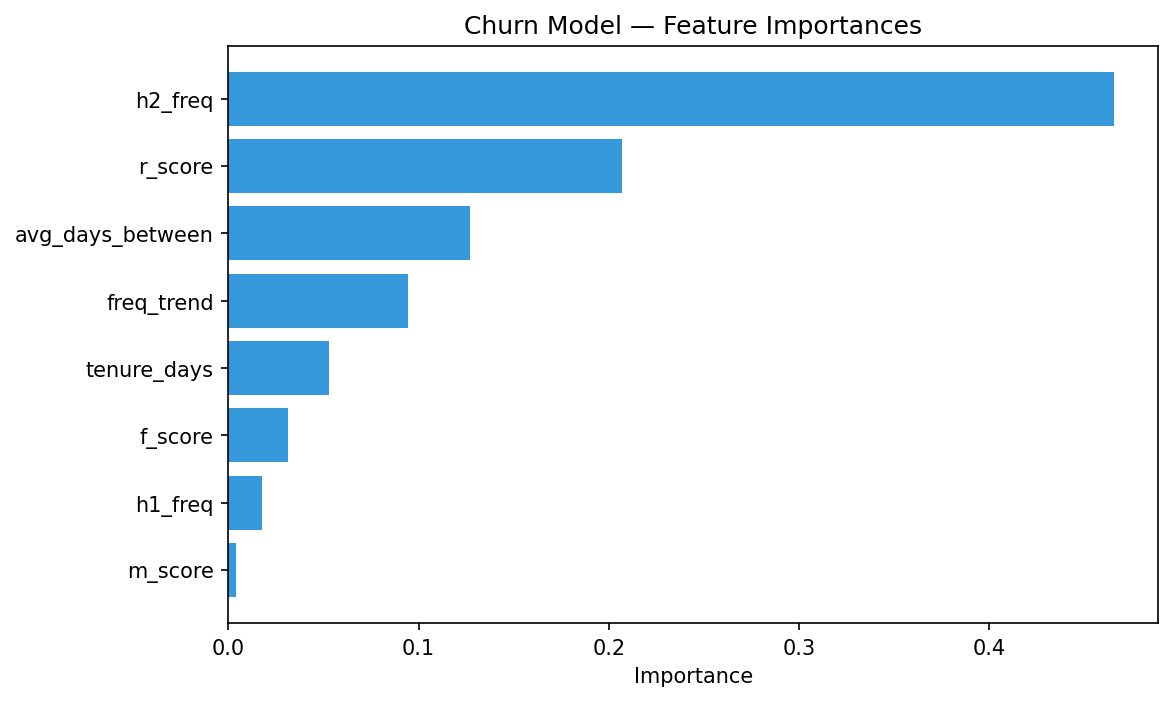
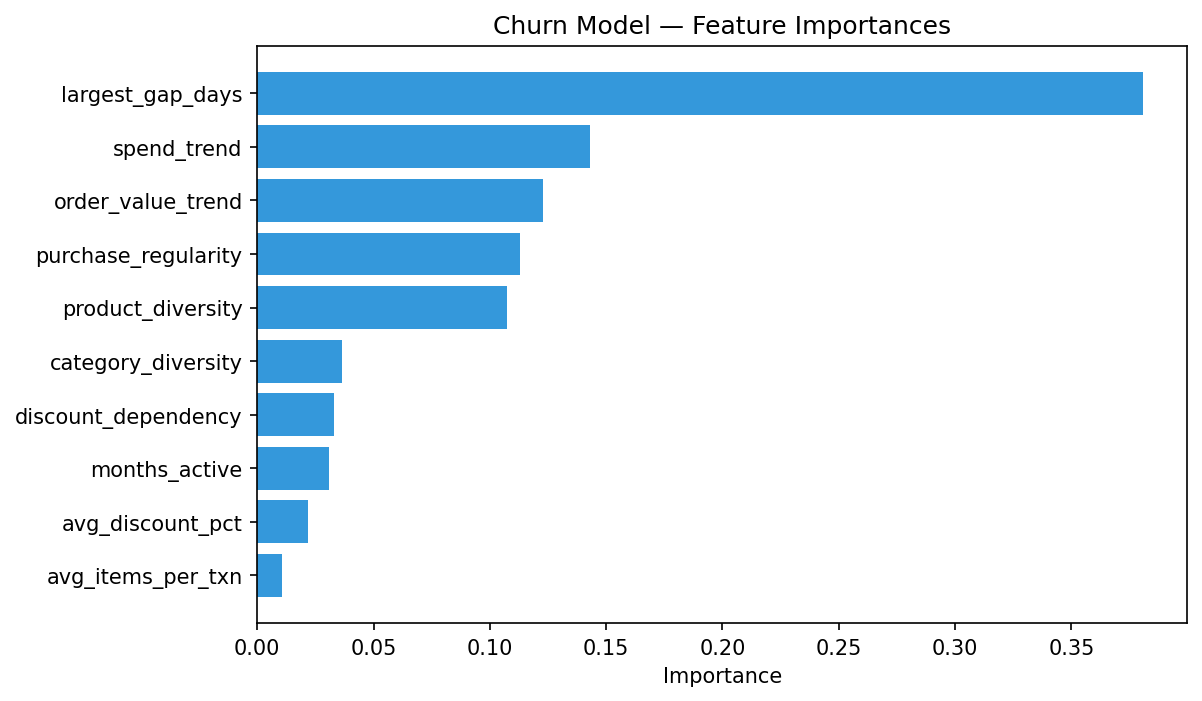
Make churn model features independent of segmentation features
Replace 8 overlapping RFM-based churn features with 10 new behavioral
features (discount behavior, product diversity, basket size, purchase
timing, spending trends) so the churn model provides independent signal
from K-Means clustering. ROC AUC improved to 0.9635.

diff --git a/scripts/customer_intelligence.py b/scripts/customer_intelligence.py
@@ -247,24 +247,114 @@ def assign_segments(rfm, transactions, customers):
 
 # ── Step 4: Churn Prediction ────────────────────────────────────────────────
 
-def predict_churn(rfm):
+def predict_churn(rfm, transactions, items, products):
     """Train Random Forest churn model and score all customers."""
     print("\nTraining churn prediction model...")
 
-    # Feature engineering
-    rfm["freq_trend"] = rfm["h2_freq"] - rfm["h1_freq"]
+    # ── Feature engineering (independent of clustering features) ──
 
-    # Average days between purchases (for customers with 2+ purchases)
-    rfm["avg_days_between"] = np.where(
-        rfm["frequency"] >= 2,
-        rfm["tenure_days"] / rfm["frequency"],
-        rfm["tenure_days"],
+    # A. Discount behavior (from transaction_items)
+    item_cust = items.merge(
+        transactions[["transaction_id", "customer_id"]], on="transaction_id"
     )
+    discount_agg = item_cust.groupby("customer_id").agg(
+        avg_discount_pct=("discount_pct", "mean"),
+        _discount_count=("discount_pct", "count"),
+    ).reset_index()
+    # Vectorized discount_dependency: fraction of items with discount > 0
+    has_discount = item_cust[item_cust["discount_pct"] > 0].groupby("customer_id").size().reset_index(name="_has_disc")
+    discount_agg = discount_agg.merge(has_discount, on="customer_id", how="left")
+    discount_agg["_has_disc"] = discount_agg["_has_disc"].fillna(0)
+    discount_agg["discount_dependency"] = discount_agg["_has_disc"] / discount_agg["_discount_count"]
+    discount_agg = discount_agg[["customer_id", "avg_discount_pct", "discount_dependency"]]
+
+    # B. Product/category diversity (from transaction_items + products)
+    item_prod = item_cust.merge(products[["product_id", "category"]], on="product_id")
+    diversity_agg = item_prod.groupby("customer_id").agg(
+        category_diversity=("category", "nunique"),
+        product_diversity=("product_id", "nunique"),
+    ).reset_index()
+
+    # C. Basket characteristics
+    items_per_txn = item_cust.groupby(["customer_id", "transaction_id"]).size().reset_index(name="item_count")
+    basket_agg = items_per_txn.groupby("customer_id").agg(
+        avg_items_per_txn=("item_count", "mean"),
+    ).reset_index()
+
+    # D. Purchase timing patterns (from transactions)
+    txn_sorted = transactions.sort_values(["customer_id", "transaction_date"])
+    txn_sorted["prev_date"] = txn_sorted.groupby("customer_id")["transaction_date"].shift(1)
+    txn_sorted["gap_days"] = (txn_sorted["transaction_date"] - txn_sorted["prev_date"]).dt.days
+
+    gap_agg = txn_sorted.dropna(subset=["gap_days"]).groupby("customer_id").agg(
+        gap_mean=("gap_days", "mean"),
+        gap_std=("gap_days", "std"),
+        largest_gap_days=("gap_days", "max"),
+    ).reset_index()
+    gap_agg["gap_std"] = gap_agg["gap_std"].fillna(0)
+    gap_agg["purchase_regularity"] = np.where(
+        gap_agg["gap_mean"] > 0,
+        gap_agg["gap_std"] / gap_agg["gap_mean"],
+        0,
+    )
+    gap_agg = gap_agg[["customer_id", "purchase_regularity", "largest_gap_days"]]
+
+    # Months active: distinct (year, month) pairs per customer
+    txn_sorted["yr_mo"] = txn_sorted["transaction_date"].dt.to_period("M")
+    months_active = txn_sorted.groupby("customer_id")["yr_mo"].nunique().reset_index()
+    months_active.columns = ["customer_id", "months_active"]
+
+    # E. Spending trends (H1 vs H2)
+    txn_h1 = transactions[transactions["transaction_date"].between(H1_START, H1_END)]
+    txn_h2 = transactions[transactions["transaction_date"].between(H2_START, H2_END)]
+
+    h1_spend = txn_h1.groupby("customer_id").agg(
+        h1_total=("total_amount", "sum"),
+        h1_avg_order=("total_amount", "mean"),
+    ).reset_index()
+    h2_spend = txn_h2.groupby("customer_id").agg(
+        h2_total=("total_amount", "sum"),
+        h2_avg_order=("total_amount", "mean"),
+    ).reset_index()
+
+    spend_trends = rfm[["customer_id"]].merge(h1_spend, on="customer_id", how="left") \
+                                        .merge(h2_spend, on="customer_id", how="left")
+    spend_trends = spend_trends.fillna(0)
+    spend_trends["order_value_trend"] = np.where(
+        spend_trends["h1_avg_order"] > 0,
+        spend_trends["h2_avg_order"] / spend_trends["h1_avg_order"],
+        0,
+    )
+    spend_trends["spend_trend"] = np.where(
+        spend_trends["h1_total"] > 0,
+        spend_trends["h2_total"] / spend_trends["h1_total"],
+        0,
+    )
+    spend_trends = spend_trends[["customer_id", "order_value_trend", "spend_trend"]]
+
+    # Merge all new features into rfm (preserve attrs through merges)
+    saved_attrs = rfm.attrs.copy()
+    for feat_df in [discount_agg, diversity_agg, basket_agg, gap_agg, months_active, spend_trends]:
+        rfm = rfm.merge(feat_df, on="customer_id", how="left")
+    rfm.attrs.update(saved_attrs)
+
+    # Fill defaults for customers with <2 purchases (no gap data)
+    rfm["purchase_regularity"] = rfm["purchase_regularity"].fillna(999.0)
+    rfm["largest_gap_days"] = rfm["largest_gap_days"].fillna(rfm["tenure_days"])
+    rfm["months_active"] = rfm["months_active"].fillna(0)
+    # Fill remaining NaNs with 0
+    churn_feat_fills = ["avg_discount_pct", "discount_dependency",
+                        "category_diversity", "product_diversity",
+                        "avg_items_per_txn", "order_value_trend", "spend_trend"]
+    for col in churn_feat_fills:
+        rfm[col] = rfm[col].fillna(0)
 
     feature_cols = [
-        "r_score", "f_score", "m_score",
-        "tenure_days", "h1_freq", "h2_freq",
-        "freq_trend", "avg_days_between",
+        "avg_discount_pct", "discount_dependency",
+        "category_diversity", "product_diversity",
+        "avg_items_per_txn",
+        "purchase_regularity", "largest_gap_days", "months_active",
+        "order_value_trend", "spend_trend",
     ]
 
     # Label: churned if recency >= 180 days
@@ -642,7 +732,7 @@ def main():
     rfm = assign_segments(rfm, transactions, customers)
 
     # Step 4: Churn prediction
-    rfm, clf, feature_cols = predict_churn(rfm)
+    rfm, clf, feature_cols = predict_churn(rfm, transactions, items, products)
 
     # Step 5: Category affinity
     affinity, affinity_pivot = compute_category_affinity(
